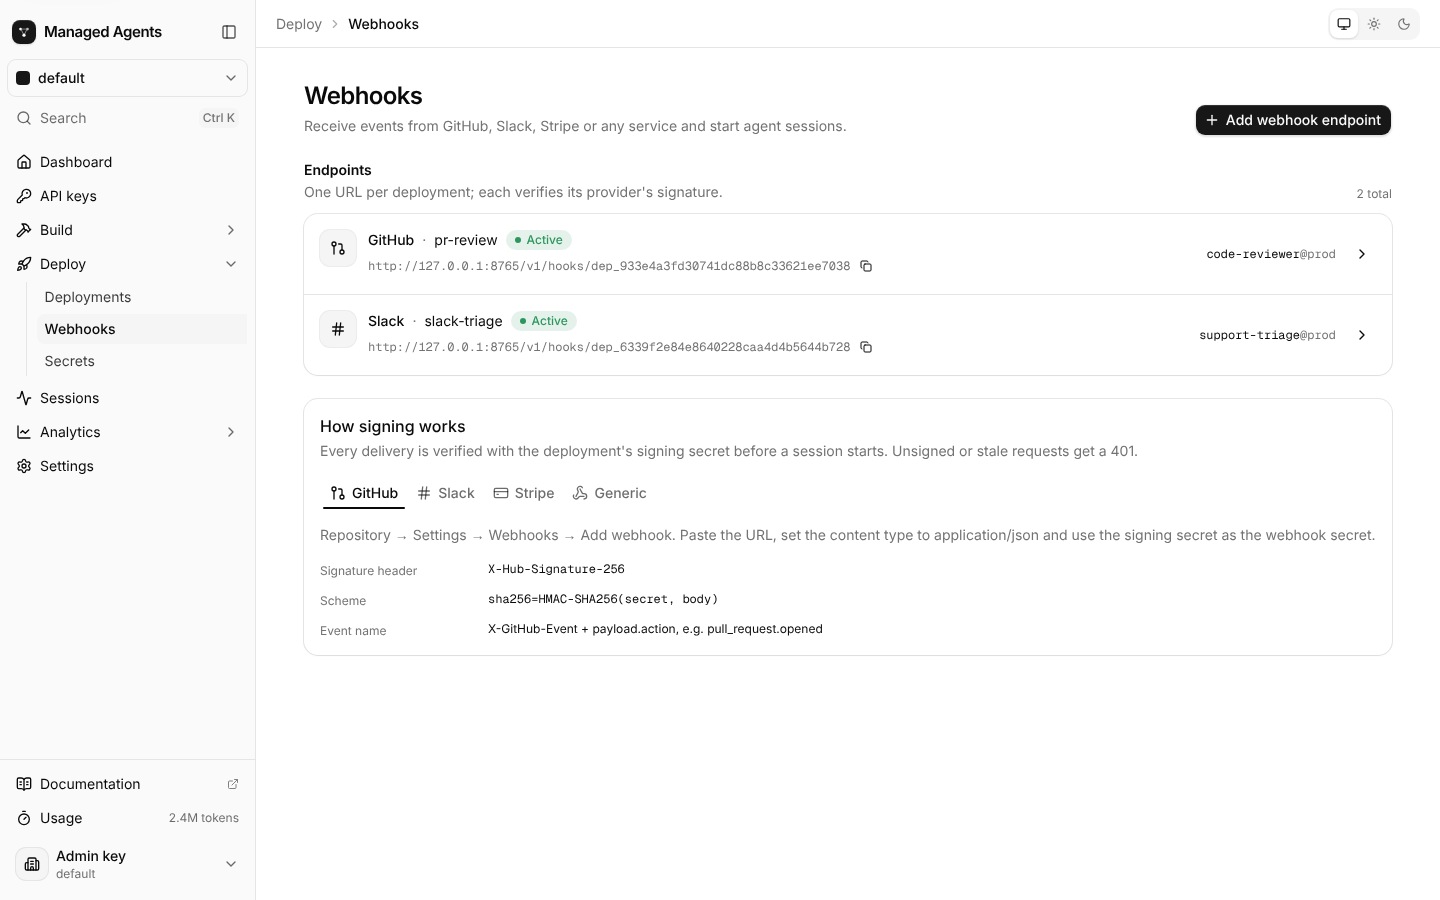
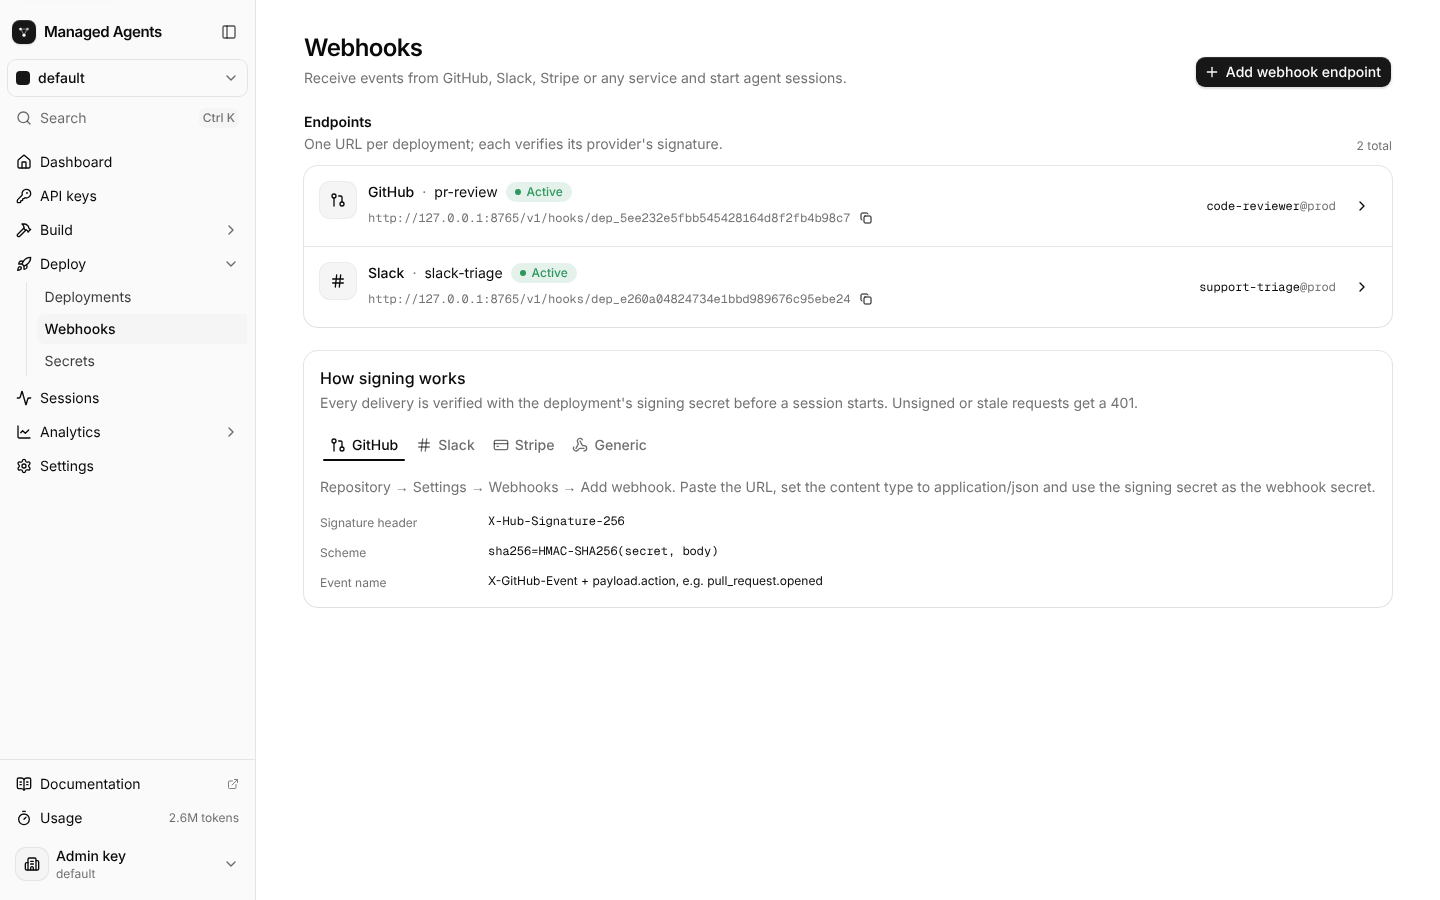
Drop the header from the dashboard's main content area
The sidebar now carries the collapse toggle, search and account menu,
so the desktop header with breadcrumbs and the theme switch goes away.
On phones a slim bar with the menu button and logo remains, since it is
the only way to open the sidebar sheet there.

Agent, session and deployment pages get a small back link to their
list in place of the breadcrumbs, and sticky panels that were offset
for the header (session side panel, replay bar, settings sub-nav) move
up. Screenshots are retaken.

diff --git a/dashboard/app/(console)/sessions/[id]/session-view.tsx b/dashboard/app/(console)/sessions/[id]/session-view.tsx
@@ -36,7 +36,7 @@ import { Tooltip, TooltipContent, TooltipTrigger } from "@/components/ui/tooltip
 import { AgentArt } from "@/components/agent-art"
 import { CopyButton } from "@/components/copy-button"
 import { EASE_OUT, FadeIn } from "@/components/motion"
-import { Page } from "@/components/page"
+import { BackLink, Page } from "@/components/page"
 import { EmptyState, ErrorState } from "@/components/states"
 import { StatusBadge } from "@/components/status-badge"
 import { Composer } from "@/components/session/composer"
@@ -113,6 +113,7 @@ export function SessionView({ sessionId }: { sessionId: string }) {
 
   return (
     <Page className="max-w-7xl">
+      <BackLink href="/sessions">Sessions</BackLink>
       <Header
         sessionId={sessionId}
         session={s}
@@ -199,7 +200,7 @@ export function SessionView({ sessionId }: { sessionId: string }) {
           )}
         </section>
 
-        <FadeIn delay={0.1} className="lg:sticky lg:top-16">
+        <FadeIn delay={0.1} className="lg:sticky lg:top-6">
           <SidePanel
             sessionId={sessionId}
             session={s}

diff --git a/dashboard/components/shell/app-shell.tsx b/dashboard/components/shell/app-shell.tsx
@@ -5,10 +5,10 @@ import { MotionConfig } from "motion/react"
 import { SidebarInset, SidebarProvider } from "@/components/ui/sidebar"
 import { AppSidebar } from "./app-sidebar"
 import { CommandMenu } from "./command-menu"
-import { SiteHeader } from "./site-header"
+import { MobileHeader } from "./mobile-header"
 import { ProjectProvider, type ProjectInfo } from "./project-context"
 
-/** Signed-in console chrome: sidebar, sticky header, command menu. */
+/** Signed-in console chrome: sidebar, command menu, and a header on phones only. */
 export function AppShell({
   project,
   defaultOpen,
@@ -31,7 +31,7 @@ export function AppShell({
         <SidebarProvider defaultOpen={defaultOpen}>
           <AppSidebar onSearch={() => setSearchOpen(true)} />
           <SidebarInset className="min-w-0">
-            <SiteHeader />
+            <MobileHeader />
             <div id="main" tabIndex={-1} className="flex flex-1 flex-col outline-none">
               {children}
             </div>

diff --git a/dashboard/components/page.tsx b/dashboard/components/page.tsx
@@ -1,4 +1,6 @@
 import * as React from "react"
+import Link from "next/link"
+import { ChevronLeftIcon } from "lucide-react"
 import { cn } from "@/lib/utils"
 import { FadeIn } from "@/components/motion"
 
@@ -92,5 +94,18 @@ export function Section({
       ) : null}
       {children}
     </section>
+  )
+}
+
+/** Small link back to the parent list, shown above a detail page's title. */
+export function BackLink({ href, children }: { href: string; children: React.ReactNode }) {
+  return (
+    <Link
+      href={href}
+      className="group/back -mb-2 inline-flex w-fit items-center gap-1 rounded-md text-sm text-muted-foreground transition-colors hover:text-foreground focus-visible:ring-2 focus-visible:ring-ring/50 focus-visible:outline-none"
+    >
+      <ChevronLeftIcon className="size-4 transition-transform duration-200 ease-(--ease-out-quint) group-hover/back:-translate-x-0.5" />
+      {children}
+    </Link>
   )
 }

diff --git a/dashboard/app/(console)/deployments/[ref]/deployment-detail.tsx b/dashboard/app/(console)/deployments/[ref]/deployment-detail.tsx
@@ -48,7 +48,7 @@ import { Tooltip, TooltipContent, TooltipTrigger } from "@/components/ui/tooltip
 import { CodeBlock } from "@/components/code-block"
 import { CopyButton } from "@/components/copy-button"
 import { FadeIn, Stagger, StaggerItem } from "@/components/motion"
-import { Page, PageHeader } from "@/components/page"
+import { BackLink, Page, PageHeader } from "@/components/page"
 import { ErrorState } from "@/components/states"
 import { StatusBadge } from "@/components/status-badge"
 import { useCan, useProject } from "@/components/shell/project-context"
@@ -136,6 +136,7 @@ export function DeploymentDetail({ deploymentRef }: { deploymentRef: string }) {
 
   return (
     <Page>
+      <BackLink href="/deployments">Deployments</BackLink>
       <PageHeader
         eyebrow="Deployment"
         title={

diff --git a/dashboard/components/shell/mobile-header.tsx b/dashboard/components/shell/mobile-header.tsx
@@ -1,0 +1,18 @@
+"use client"
+
+import Link from "next/link"
+import { SidebarTrigger } from "@/components/ui/sidebar"
+import { LogoMark } from "@/components/logo"
+
+/** Phones only: the bar that opens the sidebar sheet. Desktop has no header. */
+export function MobileHeader() {
+  return (
+    <header className="sticky top-0 z-20 flex h-12 shrink-0 items-center gap-2 border-b bg-background/80 px-3 backdrop-blur-md supports-backdrop-filter:bg-background/65 md:hidden">
+      <SidebarTrigger className="-ml-0.5" />
+      <Link href="/" className="flex items-center gap-2 font-heading text-[15px] font-semibold tracking-tight">
+        <LogoMark className="size-6 rounded-md [&_svg]:size-3.5" />
+        Managed Agents
+      </Link>
+    </header>
+  )
+}

diff --git a/dashboard/app/(console)/agents/[name]/agent-view.tsx b/dashboard/app/(console)/agents/[name]/agent-view.tsx
@@ -19,7 +19,7 @@ import {
   AlertDialogTitle,
 } from "@/components/ui/alert-dialog"
 import { Spinner } from "@/components/ui/spinner"
-import { Page } from "@/components/page"
+import { BackLink, Page } from "@/components/page"
 import { FadeIn } from "@/components/motion"
 import { AgentArt } from "@/components/agent-art"
 import { EmptyState, ErrorState } from "@/components/states"
@@ -117,6 +117,7 @@ export function AgentView({ name }: { name: string }) {
 
   return (
     <Page className="gap-6">
+      <BackLink href="/agents">Agents</BackLink>
       <FadeIn y={4} className="flex flex-col">
         <div className="relative overflow-hidden rounded-xl ring-1 ring-foreground/10">
           <AgentArt name={name} className="h-24 md:h-32" />

diff --git a/dashboard/components/session/replay.tsx b/dashboard/components/session/replay.tsx
@@ -110,7 +110,7 @@ function TransportBar({
       transition={{ duration: 0.35, ease: EASE_OUT }}
       role="group"
       aria-label="Replay controls"
-      className="sticky top-14 z-10 flex flex-col gap-2.5 rounded-xl bg-card/90 p-3 shadow-elevated ring-1 ring-foreground/10 backdrop-blur-md"
+      className="sticky top-4 z-10 flex flex-col gap-2.5 rounded-xl bg-card/90 p-3 shadow-elevated ring-1 ring-foreground/10 backdrop-blur-md"
     >
       <div className="flex flex-wrap items-center gap-1.5">
         <IconButton label="Go to start" onClick={() => dispatch({ type: "start" })} disabled={cursor === 0}>

diff --git a/dashboard/app/(console)/settings/settings-view.tsx b/dashboard/app/(console)/settings/settings-view.tsx
@@ -62,7 +62,7 @@ export function SettingsView({ initialTab }: { initialTab: SettingsTab }) {
 
       <div className="flex flex-col gap-6 md:flex-row md:gap-10">
         <nav aria-label="Settings sections" className="-mx-4 shrink-0 overflow-x-auto px-4 md:mx-0 md:w-48 md:overflow-visible md:px-0">
-          <ul className="flex gap-1 md:sticky md:top-20 md:flex-col">
+          <ul className="flex gap-1 md:sticky md:top-8 md:flex-col">
             {TABS.map((t) => {
               const active = tab === t.value
               return (

diff --git a/dashboard/README.md b/dashboard/README.md
@@ -55,7 +55,7 @@ It is a Next.js 16 App Router app scaffolded with `npx shadcn@latest init --pres
   - sections with chevrons that unfold around the current page;
   - a footer with docs, 30-day token usage and the signed-in key.
 
-  Collapsed to icons, each section becomes one icon that opens a flyout of its pages. The header holds breadcrumbs and a theme switch.
+  Collapsed to icons, each section becomes one icon that opens a flyout of its pages. There is no header on desktop: detail pages carry a back link, and the theme switch lives in the account menu and Settings. On phones a slim bar opens the sidebar.
 
 ![Dark mode](docs/dashboard-dark.png)
 
